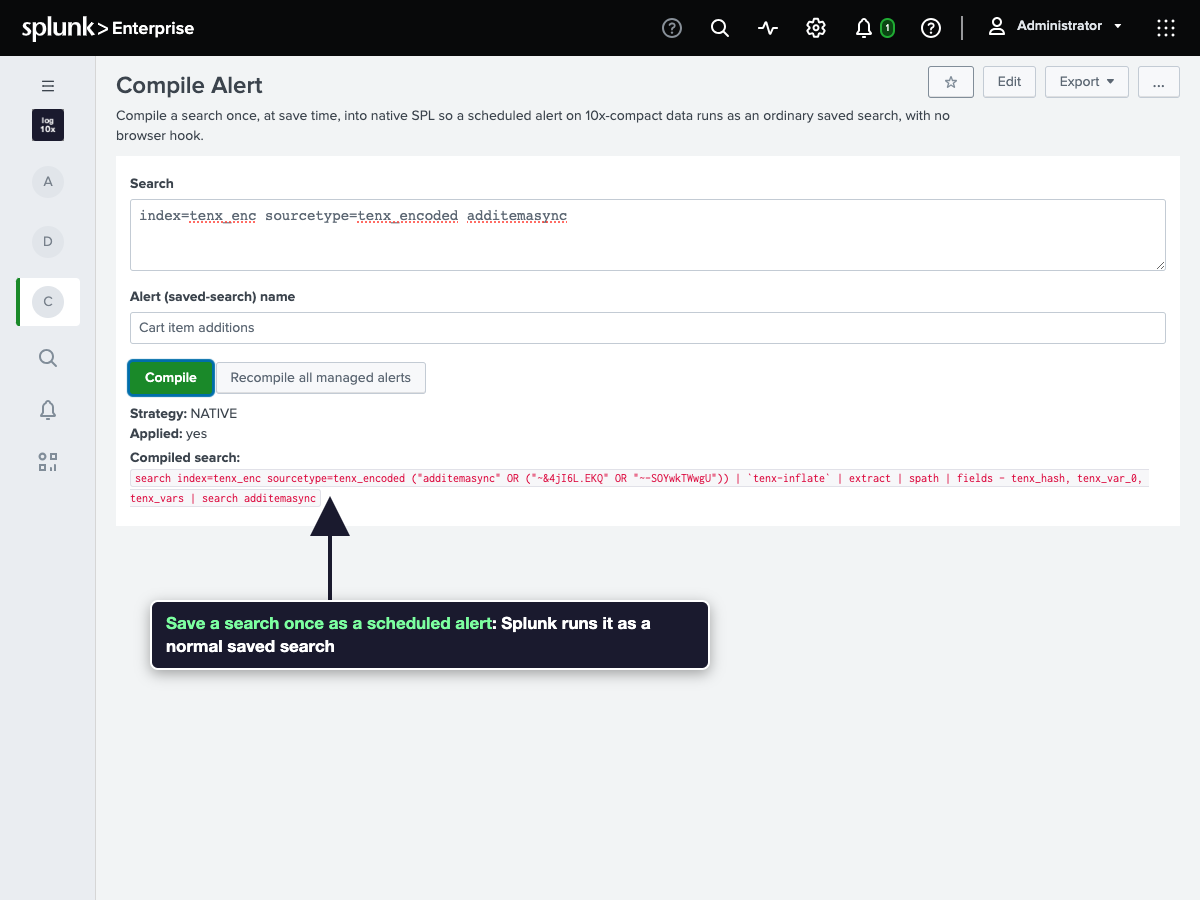
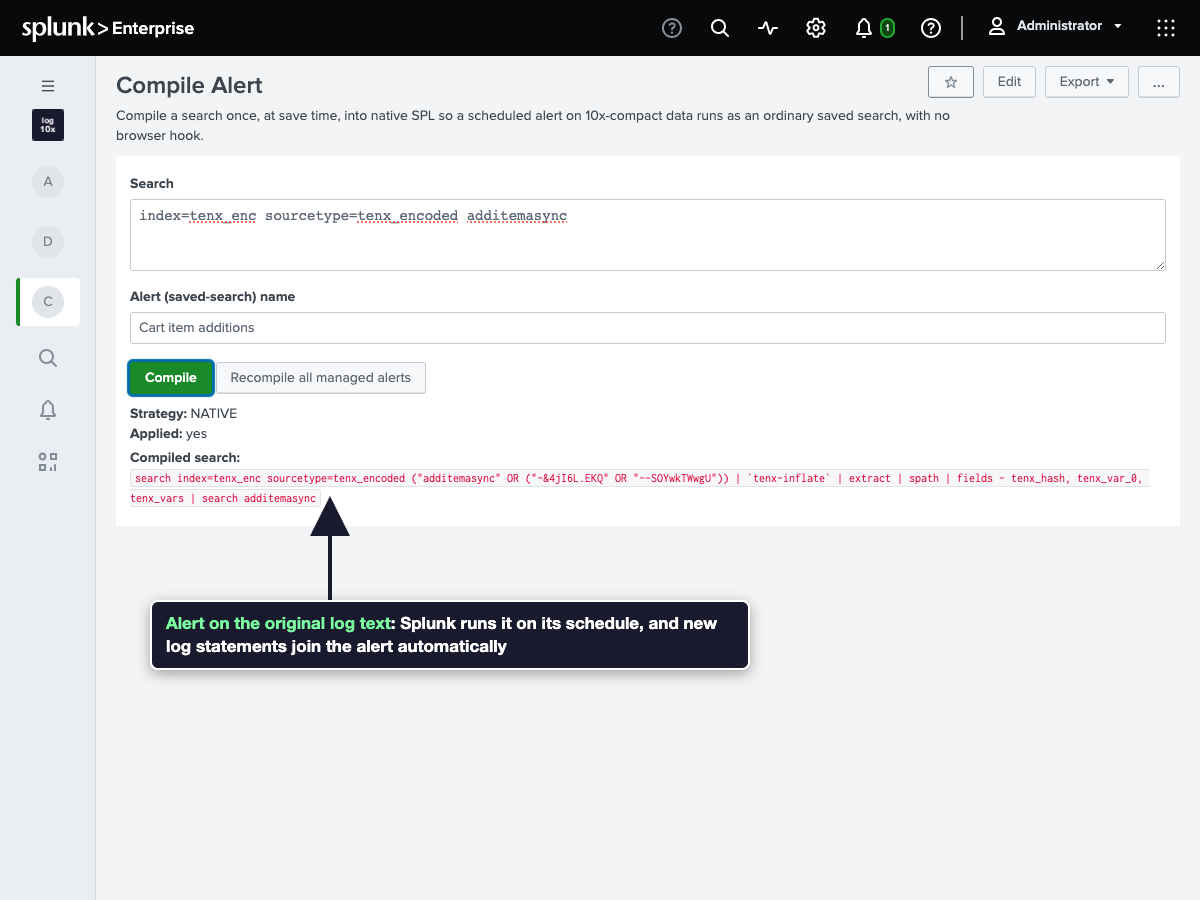
Screenshot 5: lead with the use case, alerting on the original log text

Changed region(s): [[0.1233, 0.6533, 0.6475, 0.7778]]

diff --git a/splunkbase/LISTING.md b/splunkbase/LISTING.md
@@ -142,7 +142,7 @@ Enterprise 10.4.3 against 20,000 compact events from the OpenTelemetry demo.
 | `2_search_bar.png` | The search bar with `tenxsearch`: 438 matching events, expanded to their original lines |
 | `3_dashboard.png` | A user's own classic dashboard in plain SPL: counts and events come back expanded with no changes to the panels |
 | `4_analytics.png` | Analytics: compact events, templates, compression ratio and storage saved |
-| `5_compile_alert.png` | Compile Alert: a search saved once as a scheduled alert, which Splunk runs as a normal saved search |
+| `5_compile_alert.png` | Compile Alert: alert on the original log text; Splunk runs it on its schedule, and new log statements join it automatically |
 
 Repository name: `log-10x/splunk-app`. Repository URL: https://github.com/log-10x/splunk-app
 
